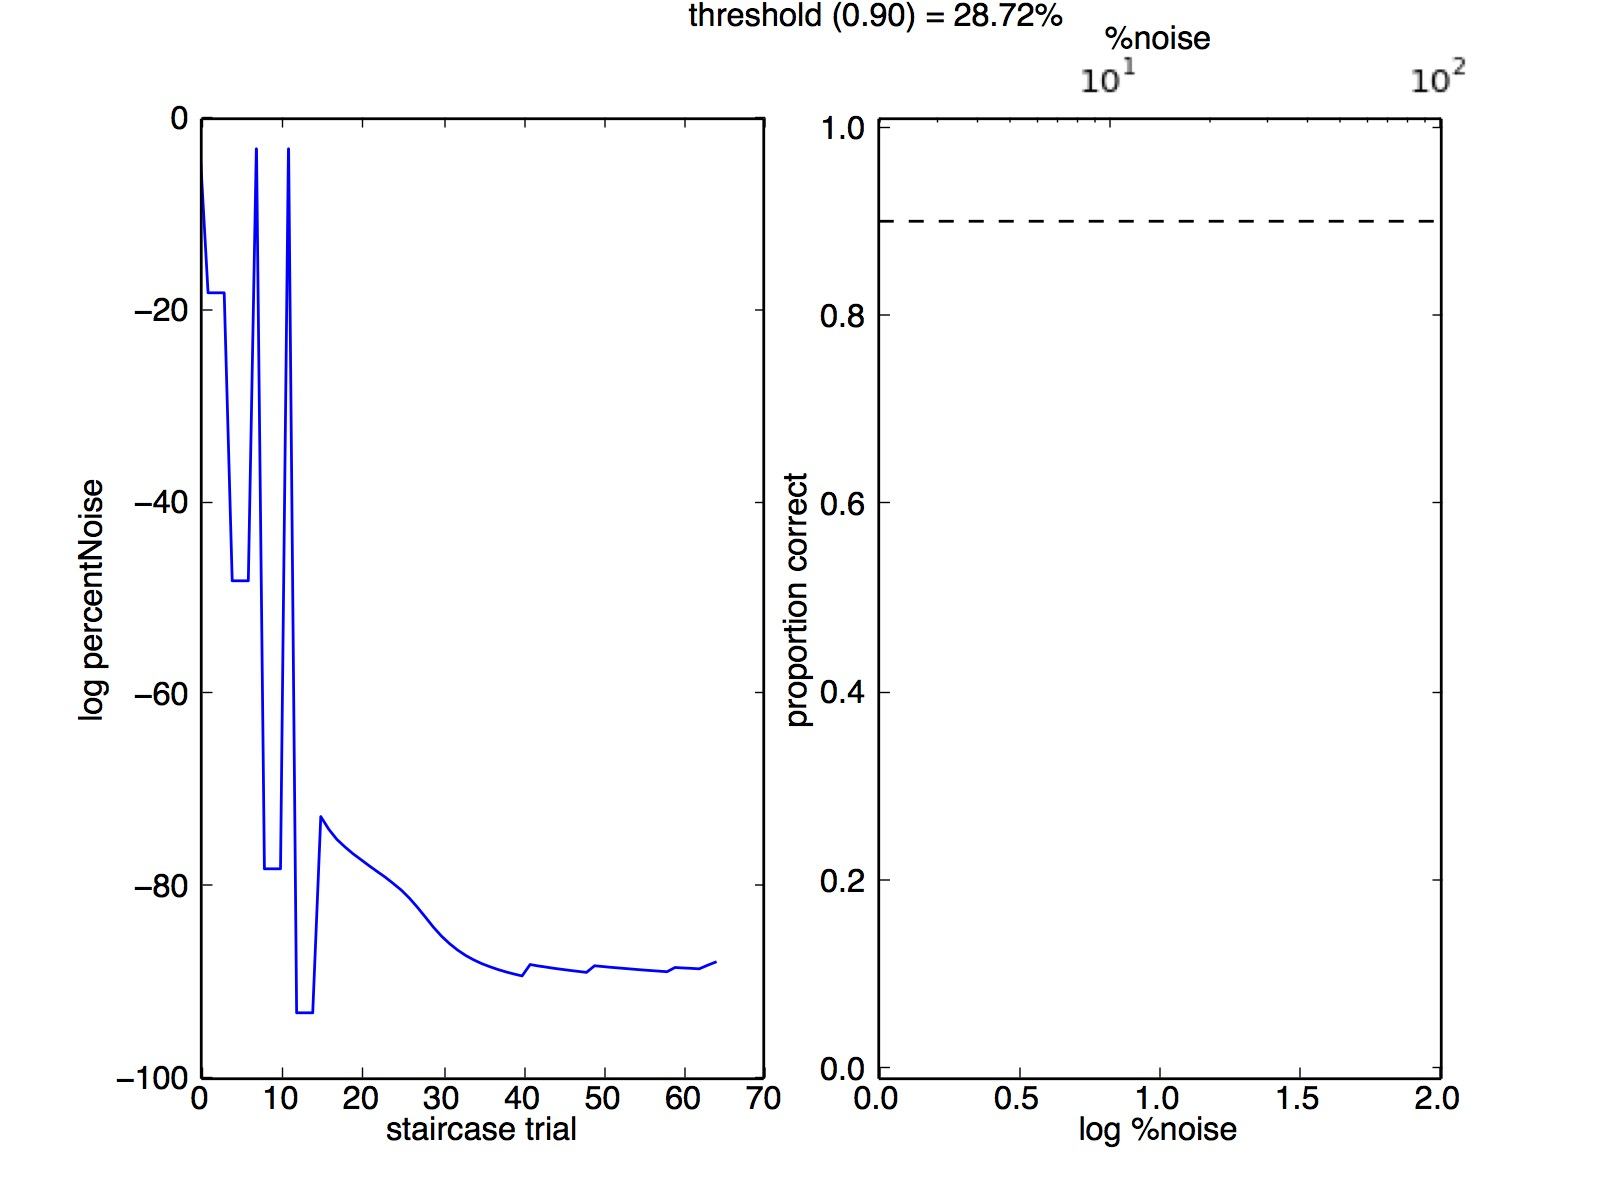
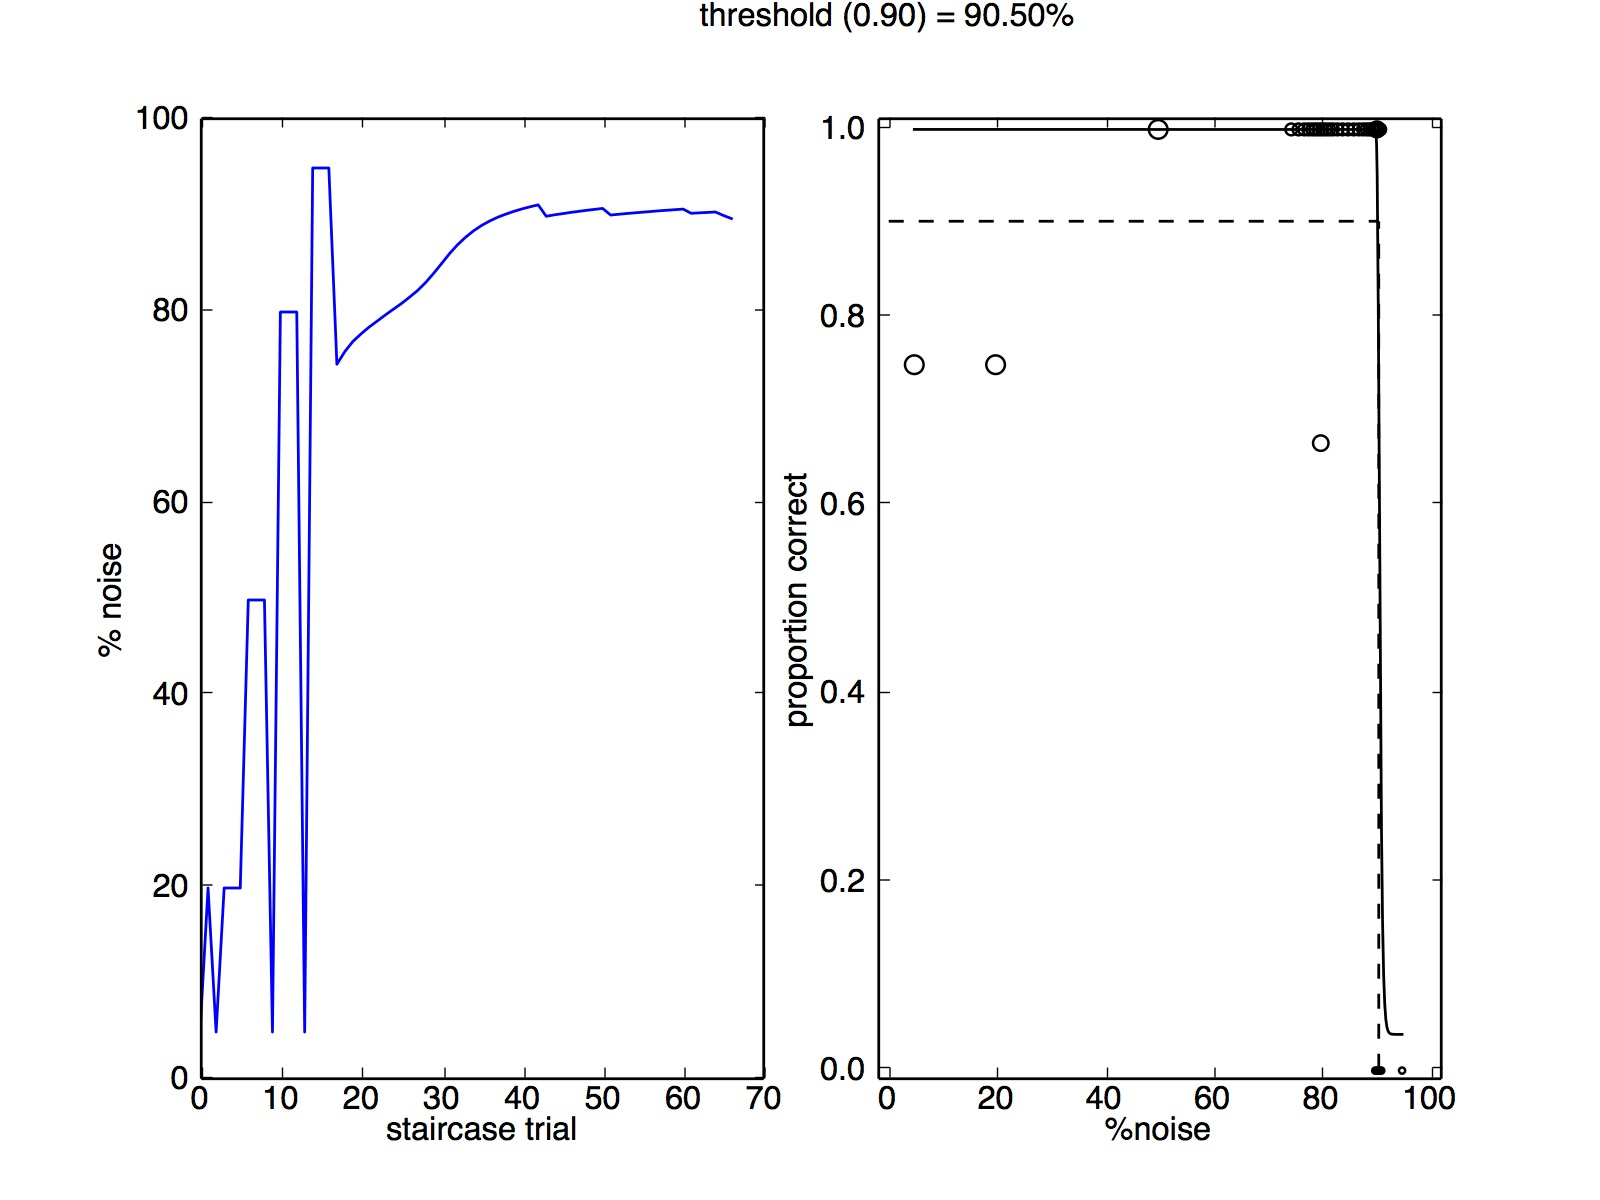
What I said last time almost true

diff --git a/ltrsNoiseQuestDemo.py b/ltrsNoiseQuestDemo.py
@@ -117,7 +117,7 @@ doingStaircasePhase = False #First phase of experiment is method of constant sti
 initialNonstaircaseTrials = np.array([5,20,20,20, 50,50,50,5,80,80,80,5,95,95,95])
 corrEachTrial = list() #only needed for initialNonstaircaseTrials
 overallTrialN = -1
-while (not staircase.finished) and expStop==False: #staircase.thisTrialN < staircase.nTrials
+while (not staircase.finished) and expStop==False:
     if overallTrialN+1 < len(initialNonstaircaseTrials): #still doing initialNonstaircaseTrials
         overallTrialN += 1
         percentNoise = initialNonstaircaseTrials[overallTrialN]
@@ -126,7 +126,9 @@ while (not staircase.finished) and expStop==False: #staircase.thisTrialN < stair
             print('Importing ',corrEachTrial,' and intensities ',initialNonstaircaseTrials)
             staircase.importData( toStaircase(initialNonstaircaseTrials,descendingPsycho), np.array(corrEachTrial)) 
         try: #advance the staircase
-            percentNoise = 100- staircase.next()  #will step through the staircase, based on whether told it (addData) got it right or wrong
+            percentNoise = staircase.next()
+            if descendingPsycho: #this is freaking awkward. Staircase.next() un-logs it, but there's no wrapper for intensities that un-logs them. Psychopy should add that
+               percentNoise = 100- percentNoise  #will step through the staircase, based on whether told it (addData) got it right or wrong
             overallTrialN += 1
         except StopIteration: #Need this here, even though test for finished above. I can't understand why finished test doesn't accomplish this.
             print('stopping because staircase.next() returned a StopIteration, which it is supposed to do when it is finished')
@@ -207,10 +209,10 @@ responses = staircase.data
 expectedMin = 1.0/26
 #fit curve
 fit = None
-try: #does this work with descending function??  NOO
+try: 
     intensityForCurveFitting = intensities
     if descendingPsycho: 
-        intensityForCurveFitting = 100-intensities
+        intensityForCurveFitting = 100-intensities #because fitWeibull assumes curve is ascending
     fit = data.FitWeibull(intensityForCurveFitting, responses, expectedMin=expectedMin,  sems = 1.0/len(intensityForCurveFitting))
     print('fit=',end=''); print(fit) #debugON
 except:

diff --git a/AB.py b/AB.py
@@ -708,8 +708,13 @@ if doStaircase:
     myWin.close()
     #Fit and plot data
     fit = None
+try: 
+
     try:
-        fit = data.FitWeibull(staircase.intensities, staircase.data, expectedMin=1/26., sems = 1.0/len(staircase.intensities))
+        intensityForCurveFitting = staircase.intensities
+        if descendingPsycho: 
+            intensityForCurveFitting = 100-staircase.intensities #because fitWeibull assumes curve is ascending
+        fit = data.FitWeibull(intensityForCurveFitting, staircase.data, expectedMin=1/26., sems = 1.0/len(staircase.intensities))
     except:
         print("Fit failed.")
     plotDataAndPsychometricCurve(staircase.intensities, staircase.data,fit, threshCriterion)

diff --git a/noiseStaircaseHelpers.py b/noiseStaircaseHelpers.py
@@ -143,7 +143,7 @@ def plotDataAndPsychometricCurve(staircase,fit,descendingPsycho,threshVal):
     pylab.subplot(121)
     pylab.plot(intensLinear)
     pylab.xlabel("staircase trial")
-    pylab.ylabel("log percentNoise")
+    pylab.ylabel("% noise")
     #plot psychometric function on the right.
     ax1 = pylab.subplot(122)
     if fit is not None:
